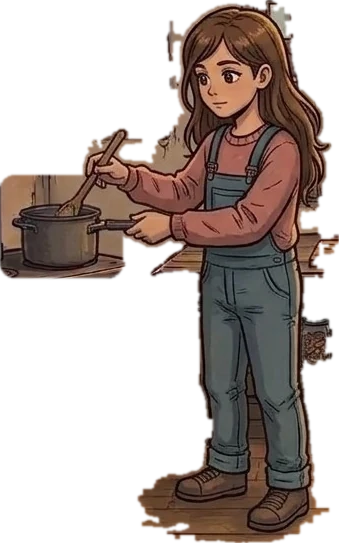
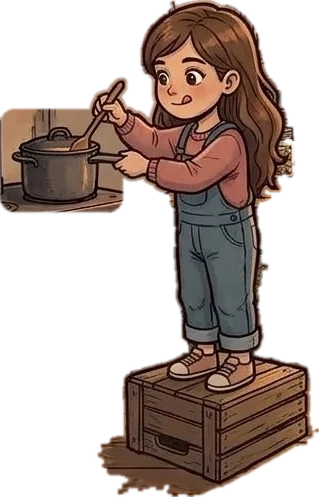
Léo et Emma aux fourneaux à leur vraie taille d'enfants (Emma sur une caisse)

diff --git a/piece.js b/piece.js
@@ -752,7 +752,7 @@ var TABLE_SALON = ["images/personnages/table-basse-avant.webp", 348, 606, 671, 7
 // Papa, Léo et Emma ajoutés le 2026-11-12 (images Gemini, cuisine identique : découpe par différence, casserole comprise).
 // Qui cuisine : celui qui a le trait « Cuisinier », sinon Maman, Papa, Léo, Emma, puis les recrues (dans cet ordre)
 var CUISINIERS = { "Maman":[149, 177, 410, 882, "cuisine-maman"], "Papa":[140, 234, 464, 777, "cuisine-papa"],
-  "Léo":[140, 227, 468, 779, "cuisine-leo"], "Emma":[140, 237, 479, 780, "cuisine-emma"],
+  "Léo":[140, 331, 433, 760, "cuisine-leo"], "Emma":[140, 303, 459, 800, "cuisine-emma"], // refaits le 2026-11-13 à leur vraie taille d'enfants (Emma sur une caisse)
   // Recrues (2026-11-12, images Gemini redessinées : découpe au contour, guidée par les silhouettes de la famille)
   "Yanis":[118, 218, 495, 773, "cuisine-yanis"], "Sam":[118, 218, 495, 773, "cuisine-sam"],
   "Inès":[118, 217, 495, 773, "cuisine-ines"], "Nora":[118, 217, 495, 773, "cuisine-nora"] };

diff --git a/site/piece.js b/site/piece.js
@@ -752,7 +752,7 @@ var TABLE_SALON = ["images/personnages/table-basse-avant.webp", 348, 606, 671, 7
 // Papa, Léo et Emma ajoutés le 2026-11-12 (images Gemini, cuisine identique : découpe par différence, casserole comprise).
 // Qui cuisine : celui qui a le trait « Cuisinier », sinon Maman, Papa, Léo, Emma, puis les recrues (dans cet ordre)
 var CUISINIERS = { "Maman":[149, 177, 410, 882, "cuisine-maman"], "Papa":[140, 234, 464, 777, "cuisine-papa"],
-  "Léo":[140, 227, 468, 779, "cuisine-leo"], "Emma":[140, 237, 479, 780, "cuisine-emma"],
+  "Léo":[140, 331, 433, 760, "cuisine-leo"], "Emma":[140, 303, 459, 800, "cuisine-emma"], // refaits le 2026-11-13 à leur vraie taille d'enfants (Emma sur une caisse)
   // Recrues (2026-11-12, images Gemini redessinées : découpe au contour, guidée par les silhouettes de la famille)
   "Yanis":[118, 218, 495, 773, "cuisine-yanis"], "Sam":[118, 218, 495, 773, "cuisine-sam"],
   "Inès":[118, 217, 495, 773, "cuisine-ines"], "Nora":[118, 217, 495, 773, "cuisine-nora"] };

diff --git a/site/sw.js b/site/sw.js
@@ -4,7 +4,7 @@
    IMPORTANT : à chaque mise à jour du jeu, changer VERSION (sinon les
    téléphones garderaient l'ancienne copie).
    ===================================================================== */
-var VERSION = "survival-20261113-1323";
+var VERSION = "survival-20261113-1332";
 var FICHIERS = [
   "./",
   "index.html",

diff --git a/CLAUDE.md b/CLAUDE.md
@@ -426,7 +426,7 @@ Fenêtre du refuge retouchée (2026-11-12, accord de Fabien) : dans l’onglet C
 Blessé avant de partir (2026-11-12, retour de Fabien : le « bouton + » n’existe plus sur téléphone) : sous l’alerte de « Où envoyer l’équipe ? », un bouton « Soigner X » par blessé (act `losoin`, `retourLieux` : fermer les soins ramène aux lieux) ; les autres textes qui parlaient du ＋ disent « touche sa carte, puis « Soigner » »
 Défenses et Camion du bastion harmonisés avec le refuge (2026-11-12) : « Niveau l / max » à côté des traits, effet actuel puis « Niveau l+1 : … » en vert, matériaux et bouton sur une ligne (`.rf-action.bd-action` ; le bouton passe dessous s’il n’y a pas la place, ex. 3-4 matériaux), camion limité à 96 px de haut et caché sous 700 px de haut ; effets des remparts (+PV des défenseurs) et des tours sans « (niveau N) » répété ; armurerie niveau 1 : « chaque coup un peu moins » au lieu de « 0 »
 Journal du bastion : assauts détaillés (2026-11-12, retour de Fabien : on ne savait pas quel clan avait attaqué qui) : le serveur note chaque assaut dans les DEUX clans (`noterAssaut` : champ `a` = {sens « subi » / « mene », par, clan adverse, cible, etoiles, butin}, daté de l’assaut, journal trié par date ; les assauts ratés de l’ennemi sont aussi notés) ; le jeu les affiche avec `ligneAssautClan` (« Kader88 [Les Loups] a pillé notre bastion · en attaquant Jojo90 · ★★☆ · −3 ferraille », « Fabien a repoussé X [Les Loups] », « Jojo90 a pillé Kader11 [Les Loups] · +4 planches », vert / rouge selon pour nous ou contre nous). Anciennes lignes : l’emoji rangé dans `qui` va dans le médaillon (avant : un livre partout), « ? » → « Un membre », pseudo interdit → « Survivant » (`pseudosPropres`)
-Lampes à pétrole (FAIT le 2026-11-13, rappel demandé par Fabien : plus d’électricité dans le monde du jeu) : 4 retouches Gemini (`images/sources/lampe-salon|atelier|garage|reserve-gemini.webp`, prompts `images/sources/prompts-gemini-2026-11-13.md`), plus grandes que les pièces : calées automatiquement (échelle ~0,82, décalage presque nul, `scratchpad/lampes.py` en Pillow seul : pas de numpy sur ce PC) puis la lampe, sa chaîne et sa lueur découpées avec un bord adouci → `images/lampes/<pièce>.webp` ; `LAMPES_PIECE` (piece.js) les pose tout en dessous des autres décors, toujours allumées. Le garage réparé a le même cadrage (même lampe). La cuisine avait déjà une lanterne, l’ampoule de la chambre est éteinte. Les vignettes de la fenêtre « Les pièces » montrent encore l’image de base. Icône peinte du Cocktail Molotov (`images/icones/cocktail.webp`) ; `icone(id)` prend maintenant aussi une icône peinte sans dessin en code (`ICONES_IMG`). `preparer-site.py` copie `images/lampes`. Prompt prêt pour refaire Léo et Emma aux fourneaux (ils étaient dessinés comme des adultes) : partie C du même fichier
+Lampes à pétrole (FAIT le 2026-11-13, rappel demandé par Fabien : plus d’électricité dans le monde du jeu) : 4 retouches Gemini (`images/sources/lampe-salon|atelier|garage|reserve-gemini.webp`, prompts `images/sources/prompts-gemini-2026-11-13.md`), plus grandes que les pièces : calées automatiquement (échelle ~0,82, décalage presque nul, `scratchpad/lampes.py` en Pillow seul : pas de numpy sur ce PC) puis la lampe, sa chaîne et sa lueur découpées avec un bord adouci → `images/lampes/<pièce>.webp` ; `LAMPES_PIECE` (piece.js) les pose tout en dessous des autres décors, toujours allumées. Le garage réparé a le même cadrage (même lampe). La cuisine avait déjà une lanterne, l’ampoule de la chambre est éteinte. Les vignettes de la fenêtre « Les pièces » montrent encore l’image de base. Icône peinte du Cocktail Molotov (`images/icones/cocktail.webp`) ; `icone(id)` prend maintenant aussi une icône peinte sans dessin en code (`ICONES_IMG`). `preparer-site.py` copie `images/lampes`. Léo et Emma aux fourneaux refaits le même jour à leur vraie taille d’enfants (partie C du même fichier : la mère jointe comme repère de taille ; Emma montée sur une caisse en bois, découpée avec elle) : `images/sources/cuisine-leo-ado-gemini.jpg`, `cuisine-emma-caisse-gemini.jpg`, cuisine identique → découpe par différence, casserole comprise (`CUISINIERS` : Léo 140, 331, 433, 760 ; Emma 140, 303, 459, 800)
 Cocktail Molotov (2026-11-12, idée de Fabien : on ne savait pas d’où sortaient les cocktails) : vrai objet `cocktail` (cat munition, empilable, au stock commun, sans case d’équipement), recette à l’atelier 1 alcool + 1 chiffon (fin de `RECETTES`) ; en combat `peutCocktail` = un cocktail au stock + un briquet dans la famille, bouton « Cocktail ×N », 1 cocktail retiré par lancer (avant : 1 alcool + 1 chiffon retirés sur le moment, sans que rien ne le dise). Kit du raid : cocktails au lieu d’alcool et chiffons. Robot de simulation : garde 2 cocktails d’avance. Simulation inchangée (bon 103 jours, moyen 39-40, débutant 10). Icône : feu en attendant une icône peinte (à demander à Gemini)
 Classement du mois en direct (2026-11-12, idée de Fabien) : `envoyerMonde` envoie aussi le score d’une partie CLASSÉE en vie (`classee`, `score`, cadre, avatar) ; `/api/monde` la fait entrer dans la saison (`live:true`, `t`) seulement si elle dépasse le meilleur score du mois de l’appareil (écritures limitées), avec la vérification score ≤ 4 × jours ; `vueSaison` renvoie `enCours` (nouvelles depuis moins de 3 jours) → pastille « ● en cours » dans le classement du mois ; ouvrir le classement envoie d’abord son score du moment. Fin de partie : `live` remis à faux. Couronne gagnée en cours de partie : `S.legende.enJeu` + `ancienPseudo`, annoncée (avec le colis) au game over. Guide « La Légende du mois » à jour
 Classement du mois, « pourquoi je n’y suis pas » (2026-11-12, la partie de Fabien n’apparaissait pas : son ancien pseudo refusé comptait comme « pas de pseudo », et le serveur n’accepte pas de score sans pseudo) : `pourquoiAbsent(S)` dans l’onglet « Ce mois-ci » : partie libre, pas de pseudo (bouton « Choisir mon pseudo », retour `data-retour="classement"`), pas encore de point, ou « envoyée, apparaîtra dans quelques instants ». Carte de la Légende : texte dans `.lg-txt` (l’ancienne règle `.lg-carte > span:nth-child(2)` l’écrasait en colonne de 94 px quand c’était le joueur), « Fin de la saison » sur sa propre ligne
